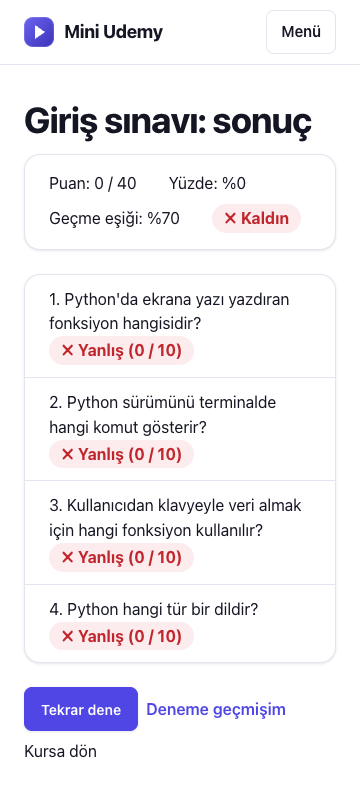
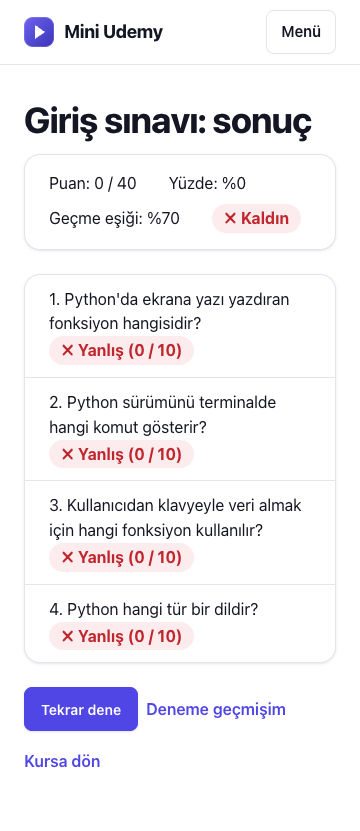
fix(#58): sınav sonucunda "Kursa dön" bağlantısı 44 px dokunma hedefi; izlenebilirlikte test sayısı ve coverage test raporuyla aynı

diff --git a/frontend/src/app/quizzes/[id]/QuizTakeView.tsx b/frontend/src/app/quizzes/[id]/QuizTakeView.tsx
@@ -290,7 +290,11 @@ function Result({
           </button>
         )}
         <Link className="touch-link" href={`/quizzes/${quizId}/attempts`}>Deneme geçmişim</Link>
-        {!result.passed && <Link href={courseId !== null ? learnHref(courseId) : "/my-courses"}>Kursa dön</Link>}
+        {!result.passed && (
+          <Link className="touch-link" href={courseId !== null ? learnHref(courseId) : "/my-courses"}>
+            Kursa dön
+          </Link>
+        )}
       </div>
     </section>
   );

diff --git a/docs/traceability.md b/docs/traceability.md
@@ -189,4 +189,4 @@ Dört durumun hepsi testli: uçtan uca `Bolum6CriticalCasesIT` (case1–case4) v
 | Bugün `main`'de en az bir otomatik testi olan | **43** | **16** |
 | Otomatik testi olmayan | 1: FR-29 (ön yüzde sabit metin; manuel kontrol, #68) | 3: NFR-07, NFR-17 (görsel/tarayıcı, #68), NFR-14 (süreç, her PR'da CI) |
 
-16.11'de otomatik testi olan FR sayısı 6, NFR sayısı 4'tü. `main`'de 1154 test var (964 birim, 13 mimari, 177 entegrasyon; 21.11.2026); servis katmanı satır coverage'ı %98,4 (test raporu, #99). **P1 gereksinimlerden otomatik testi olmayan** yalnız FR-29: akreditasyon ibaresi ön yüzde sabit metin ve ön yüz için otomatik test aracı yok (proje kuralı); bug bash'te (#68) kontrol edilir.
+16.11'de otomatik testi olan FR sayısı 6, NFR sayısı 4'tü. `main`'de 1194 test var (997 birim, 13 mimari, 184 entegrasyon; 23.11.2026); servis katmanı satır coverage'ı %98,2, dal coverage'ı %93,3 (test raporu, #99). **P1 gereksinimlerden otomatik testi olmayan** yalnız FR-29: akreditasyon ibaresi ön yüzde sabit metin ve ön yüz için otomatik test aracı yok (proje kuralı); bug bash'te (#68) kontrol edilir.
